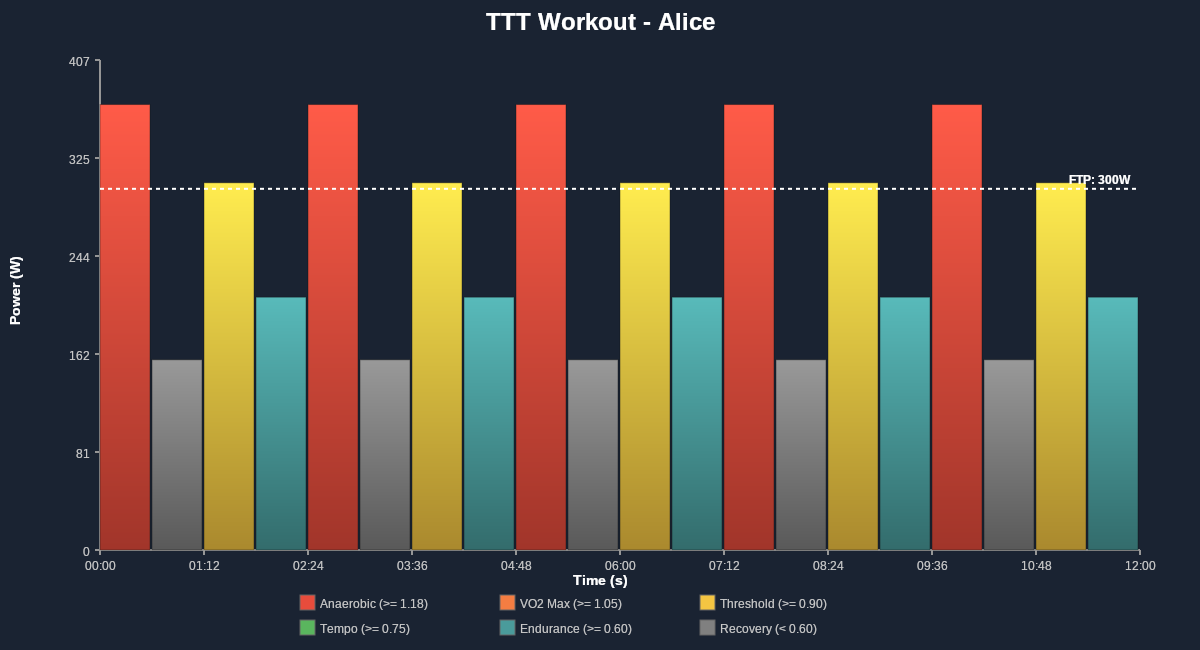
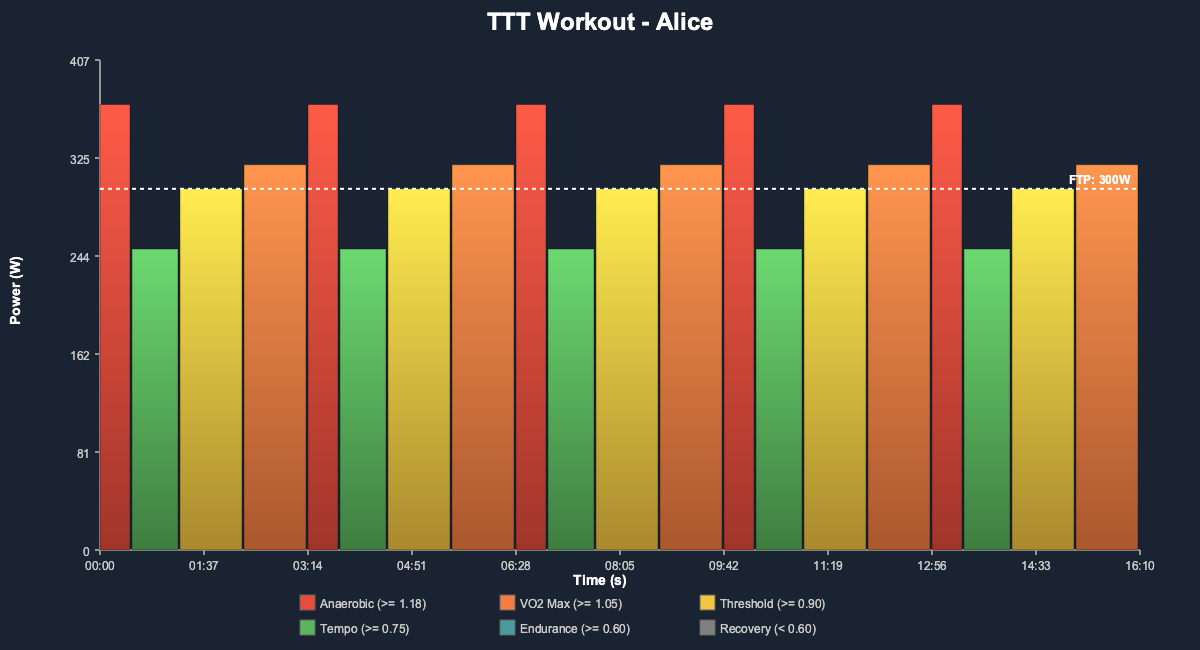
Update workout visualizations and add sample rider data

diff --git a/README.md b/README.md
@@ -115,11 +115,11 @@ In practice, the input data can be:
 
 ### Example Workout Visualizations
 
-**Alice's Workout** - Showcases Anaerobic, VO2 Max, Threshold, and Recovery zones:
+**Alice's Workout** - Showcases Anaerobic, Tempo, Threshold and VO2Max zones:
 
 ![Alice Workout Visualization](docs/images/sample_alice.png)
 
-**Bob's Workout** - Showcases Threshold, VO2 Max, Tempo, and Recovery zones:
+**Bob's Workout** - Showcases Threshold, VO2 Max, Recovery, and Endurance zones:
 
 ![Bob Workout Visualization](docs/images/sample_bob.png)
 
